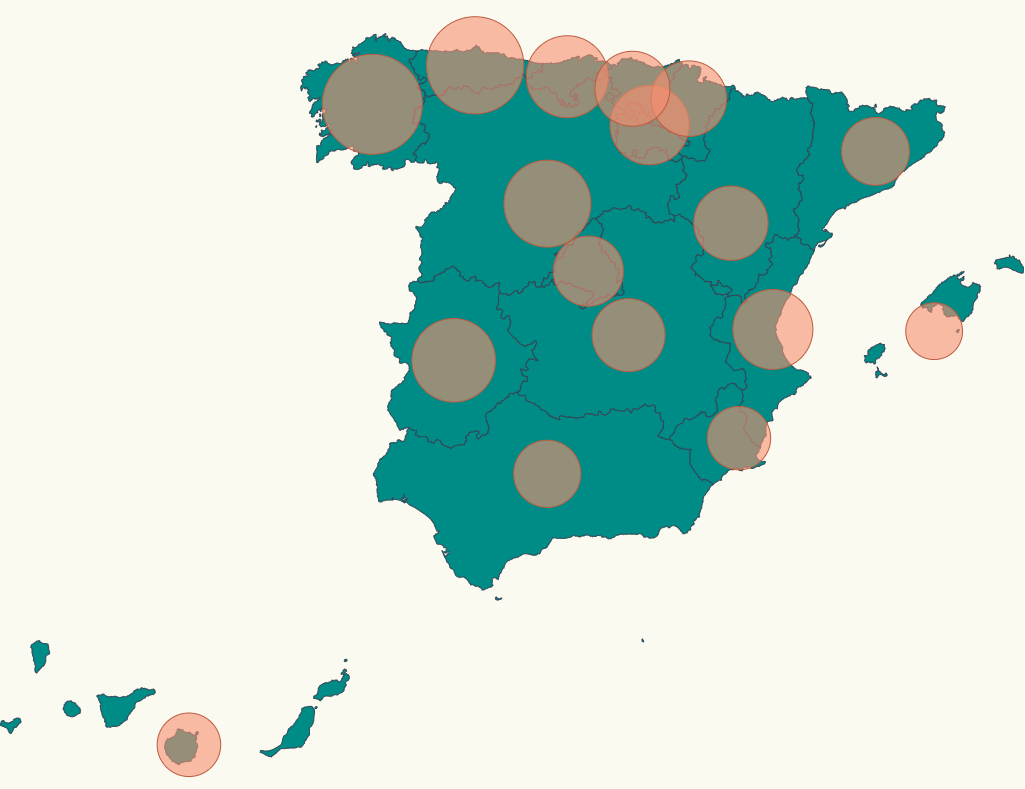
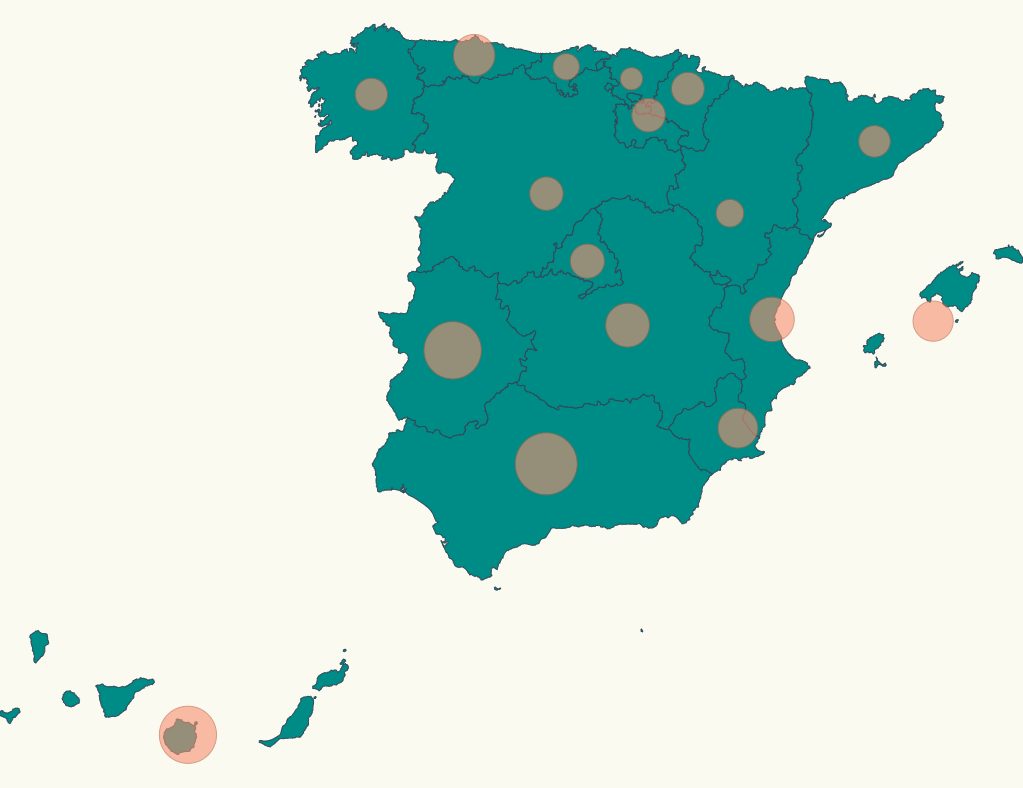
XVI edition - D3.js update after class

diff --git a/04-frameworks/05-d3js/02-maps/02-pin-location-scale/Readme.md b/04-frameworks/05-d3js/02-maps/02-pin-location-scale/Readme.md
@@ -20,11 +20,9 @@ We have to face three challenges here:
 npm install
 ```
 
-- This time we will Spain topojson info: <https://github.com/deldersveld/topojson/blob/master/countries/spain/spain-comunidad-with-canary-islands.json>
+- This time we will use Spain topojson info from [spain.json](../99-resources/spain.json). Let's copy this file under the following route: _./src/spain.json_
 
-Let's copy it under the following route _./src/spain.json_
-
-- Now instead of importing _europe.json_ we will import _spain.json_.
+- Now, instead of importing _europe.json_, we will import _spain.json_.
 
 _./src/index.ts_:
 
@@ -195,6 +193,8 @@ _./src/index.ts_:
 ```diff
 import * as d3 from "d3";
 import * as topojson from "topojson-client";
+const spainjson = require("./spain.json");
+const d3Composite = require("d3-composite-projections");
 + import { latLongCommunities } from "./communities";
 ```
 
@@ -357,8 +357,8 @@ svg
   .data(latLongCommunities)
   .enter()
   .append("circle")
--  .attr("r", 15)
-+  .attr("r", d => calculateRadiusBasedOnUnemploymentPercentage(d.name))
+- .attr("r", 15)
++ .attr("r", d => calculateRadiusBasedOnUnemploymentPercentage(d.name))
   .attr("cx", d => aProjection([d.long, d.lat])[0])
   .attr("cy", d => aProjection([d.long, d.lat])[1]);
 ```
@@ -403,7 +403,14 @@ svg
   .append("path")
 - .attr("class", "country")
 + .attr("class", "region")
-  .attr("d", geoPath as any);
+  .attr("d", geoPath as any)
+- .on("mouseover", function (d, i) {
+-   d3.select(this).attr("class", "selected-country");
+- })
+- .on("mouseout", function (d, i) {
+-   d3.select(this).attr("class", "country");
+- });
+
 svg
   .selectAll("circle")
   .data(latLongCommunities)
@@ -445,21 +452,20 @@ _./src/index.ts_:
 
 ```diff
 svg
-  .selectAll("path")
-  .data(geojson["features"])
+  .selectAll("circle")
+  .data(latLongCommunities)
   .enter()
-  .append("path")
-  .attr("class", "country")
-  // data loaded from json file
-  .attr("d", geoPath as any)
-  .on("mouseover", function(d, i) {
--   d3.select(this).attr("class", "selected-country");
+  .append("circle")
+  .attr("class", "marker")
+  .attr("r", (d) => calculateRadiusBasedOnUnemploymentPercentage(d.name))
+  .attr("cx", (d) => aProjection([d.long, d.lat])[0])
+  .attr("cy", (d) => aProjection([d.long, d.lat])[1])
++ .on("mouseover", function(d, i) {
 +   d3.select(this)
 +     .attr("class", "selected-marker")
 +     .style("cursor", "pointer");
-  })
-  .on("mouseout", function(d, i) {
--   d3.select(this).attr("class", "country");
++ })
++ .on("mouseout", function(d, i) {
 +   d3.select(this)
 +     .attr("class", "marker")
 +     .style("cursor", "default");
@@ -467,7 +473,7 @@ svg
 + .on("click", function(event, d) {
 +   const percentage = unemploymentRate2023Q4.find((element) => element.name === d.name).value;
 +   alert(`unemployment percentage in ${d.name}: ${percentage}%`)
-  });
++ });
 ```
 
 ## About Basefactor + Lemoncode
